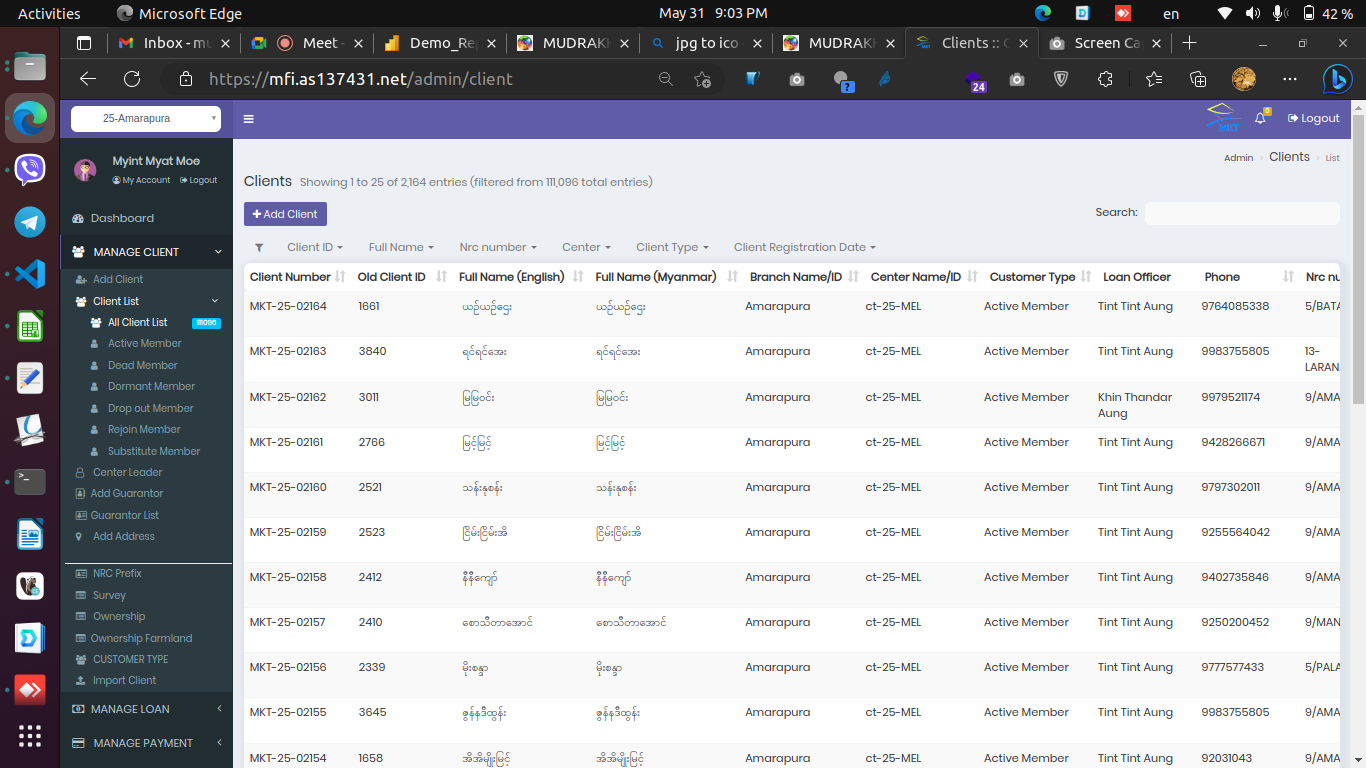
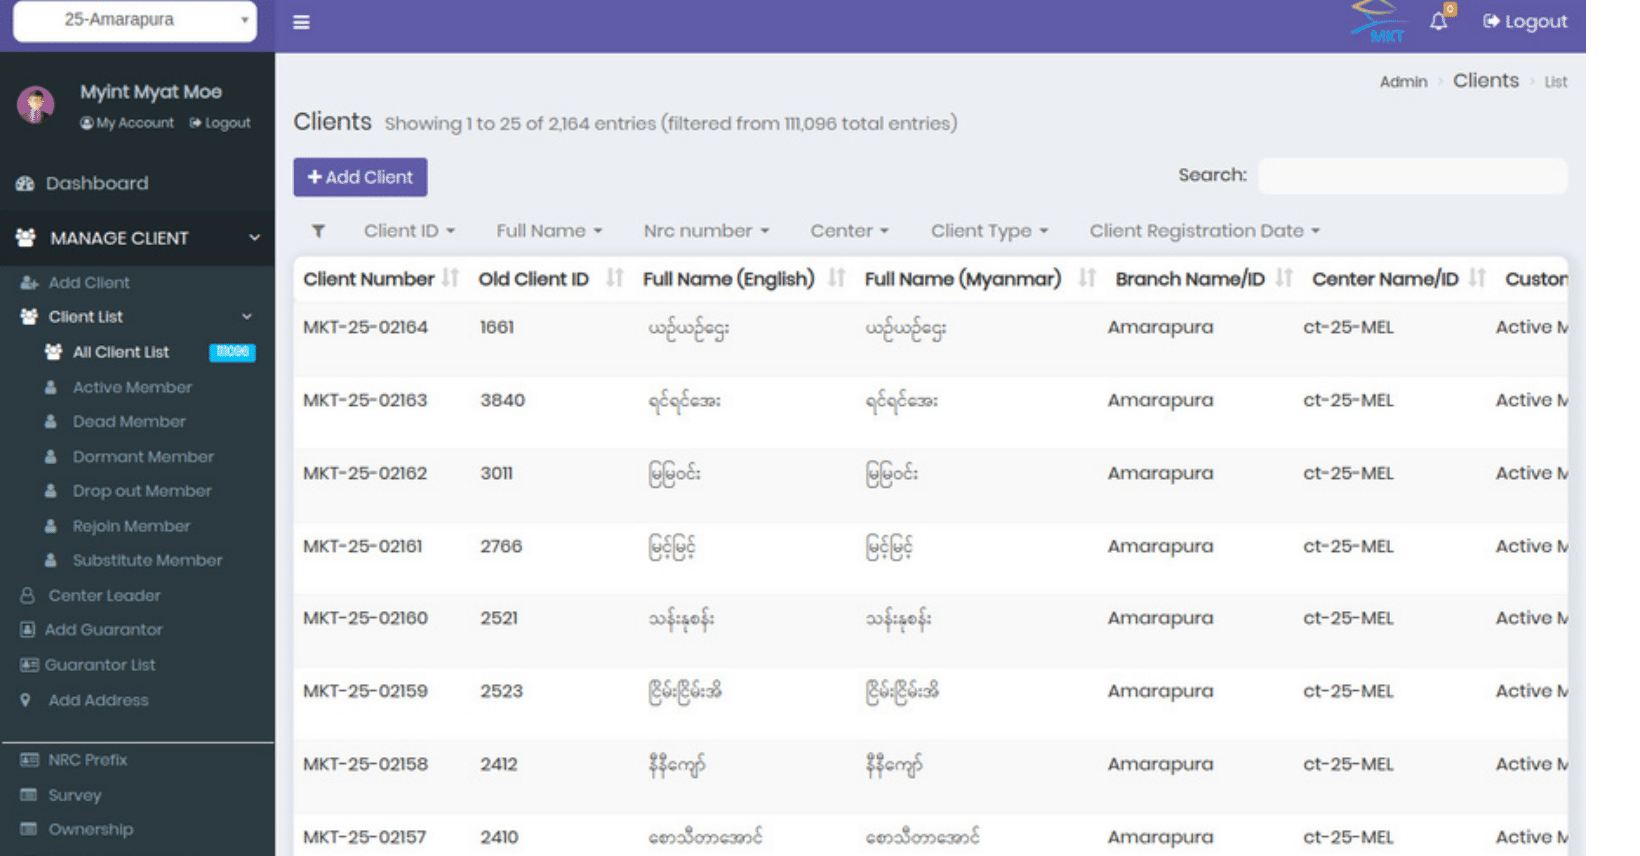
update mfi slide

diff --git a/mktmis.html b/mktmis.html
@@ -70,22 +70,34 @@ html,body,h1,h2,h3,h4,h5,h6 {font-family: "Roboto", sans-serif}
     </p><hr>
     <p>username : guest@mis.com</p>
     <p>password : password</p><br>
-          </div>
+      </div>
           
           <div class="w3-content" style="max-width:1200px">
-            <img class="mySlides" src="images/mkt/mkt_dashboard.png" style="width:100%;display:none">
-            <img class="mySlides" src="images/mkt/mkt_clients.png" style="width:100%">
+            <img class="mySlides" src="images/mkt/mkt_login.png" style="width:100%;">
+            <img class="mySlides" src="images/mkt/mkt_dashboard.png" style="width:100%;display:none;">
+            <img class="mySlides" src="images/mkt/mkt_clients.png" style="width:100%;display:none;">
             <img class="mySlides" src="images/mkt/mkt_loans.png" style="width:100%;display:none">
+            <img class="mySlides" src="images/mkt/mkt_repayments.png" style="width:100%;display:none">
+            <img class="mySlides" src="images/mkt/mkt_products.png" style="width:100%;display:none">
           
             <div class="w3-row-padding w3-section">
-              <div class="w3-col s4">
-                <img class="demo w3-opacity w3-hover-opacity-off" src="images/mkt/mkt_dashboard.png" style="width:100%;cursor:pointer" onclick="currentDiv(1)">
+              <div class="w3-col s2">
+                <img class="demo w3-opacity w3-hover-opacity-off" src="images/mkt/mkt_login.png" style="width:100%;cursor:pointer" onclick="currentDiv(1)">
               </div>
-              <div class="w3-col s4">
-                <img class="demo w3-opacity w3-hover-opacity-off" src="images/mkt/mkt_clients.png" style="width:100%;cursor:pointer" onclick="currentDiv(2)">
+              <div class="w3-col s2">
+                <img class="demo w3-opacity w3-hover-opacity-off" src="images/mkt/mkt_dashboard.png" style="width:100%;cursor:pointer" onclick="currentDiv(2)">
               </div>
-              <div class="w3-col s4">
-                <img class="demo w3-opacity w3-hover-opacity-off" src="images/mkt/mkt_loans.png" style="width:100%;cursor:pointer" onclick="currentDiv(3)">
+              <div class="w3-col s2">
+                <img class="demo w3-opacity w3-hover-opacity-off" src="images/mkt/mkt_clients.png" style="width:100%;cursor:pointer" onclick="currentDiv(3)">
+              </div>
+              <div class="w3-col s2">
+                <img class="demo w3-opacity w3-hover-opacity-off" src="images/mkt/mkt_loans.png" style="width:100%;cursor:pointer" onclick="currentDiv(4)">
+              </div>
+              <div class="w3-col s2">
+                <img class="demo w3-opacity w3-hover-opacity-off" src="images/mkt/mkt_repayments.png" style="width:100%;cursor:pointer" onclick="currentDiv(5)">
+              </div>
+              <div class="w3-col s2">
+                <img class="demo w3-opacity w3-hover-opacity-off" src="images/mkt/mkt_products.png" style="width:100%;cursor:pointer" onclick="currentDiv(6)">
               </div>
             </div>
           </div>
